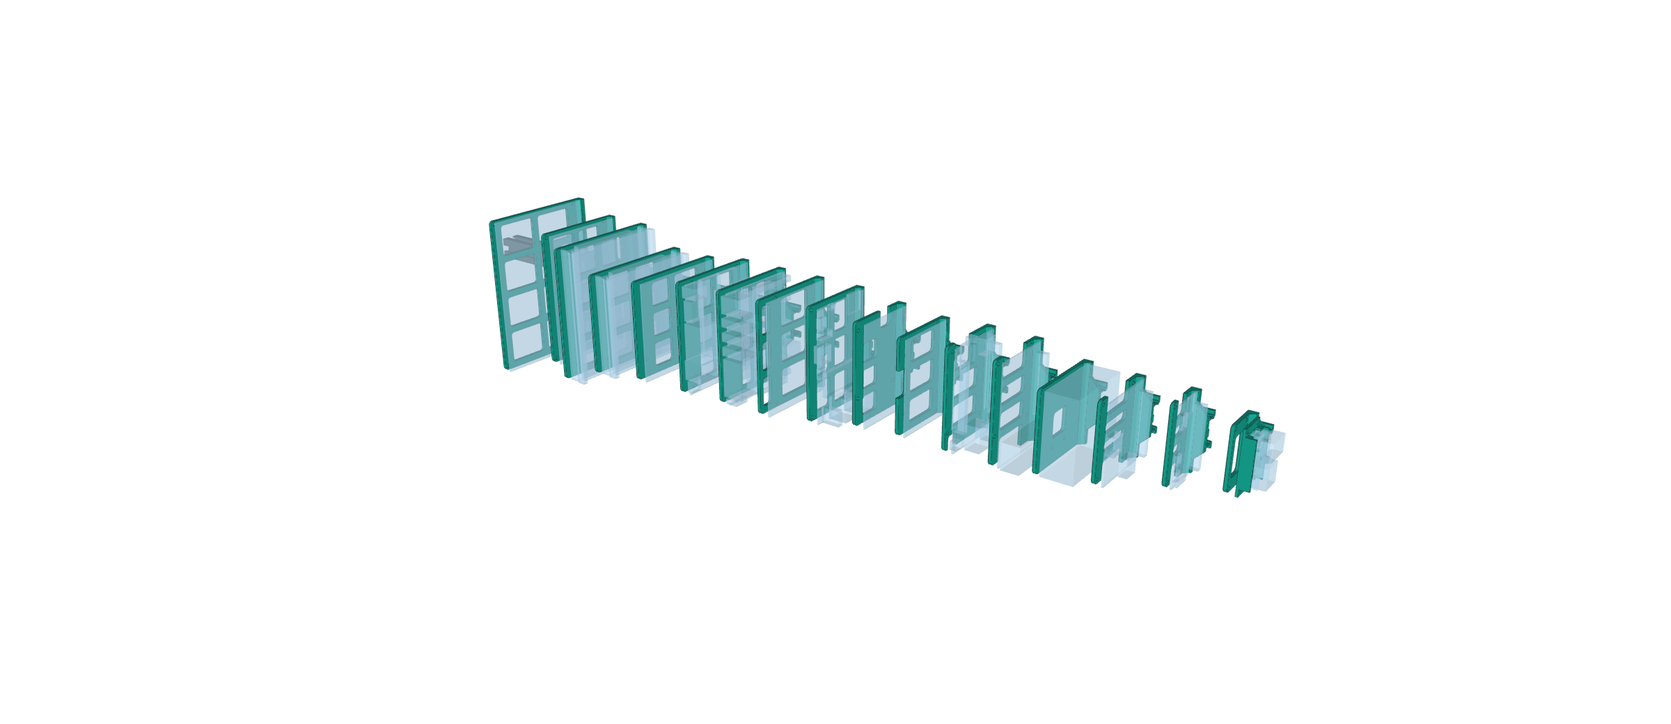
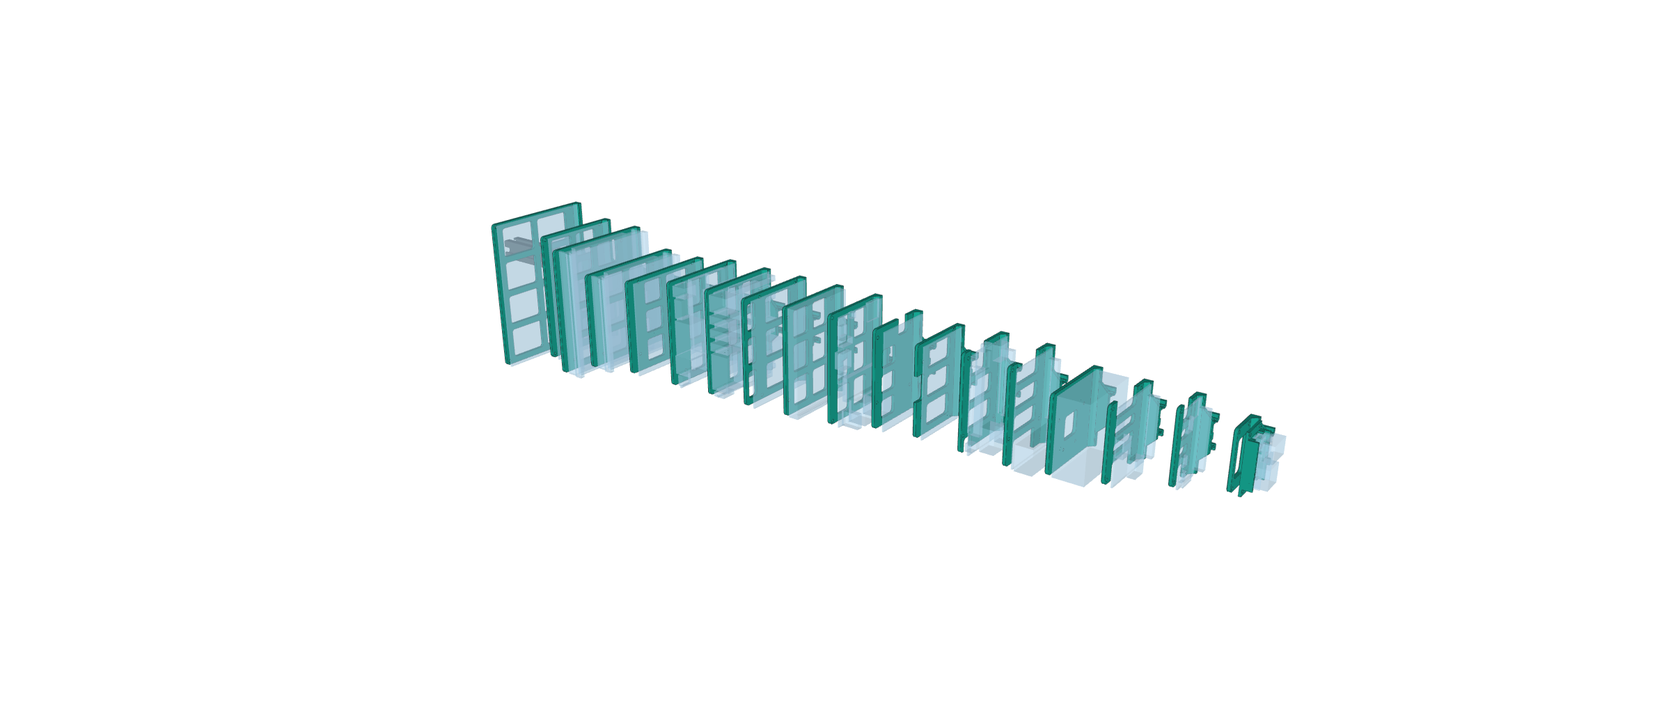
Add a bracket for 2.5-inch SSDs and hard disks (SFF-8201)
Drive25 holds a 2.5-inch drive by the four M3 holes in its underside.
The outline, the holes and the screw depth are from SNIA SFF-8201
Rev 3.4 and the SATA connector from SFF-8223 Rev 2.7; only dimensions
are taken from them.

The definition needs no code changes. The connector end never faces
the frame, M3 x 8 screws reach 2.0 mm into the drive (the spec allows
2.5 mm), and all 24 models pass --check. DESIGN_NOTES gets history 24,
the reference volumes and the sources; the README gets the support,
standoff, print time and download rows, and new hero and gallery
images.

Changed region(s): [[0.2812, 0.2769, 0.7812, 0.6769]]

diff --git a/README.md b/README.md
@@ -6,12 +6,12 @@
 
 <picture>
   <source media="(prefers-color-scheme: dark)" srcset="docs/images/hero-dark.png">
-  <img alt="Brackets side by side on a 20x20 aluminium extrusion, for (left to right) LattePanda Mu Lite Carrier, LattePanda 3 Delta, Hardkernel ODROID-M1, Hardkernel ODROID-N2+, Hardkernel ODROID-M2, NVIDIA Jetson Orin Nano Developer Kit, Orange Pi 5 Plus, Radxa ROCK 5B, Orange Pi 5, Orange Pi 5 Pro, Khadas VIM1S, BeagleBoard.org BeagleBone Black, Raspberry Pi 4, Sipeed NanoKVM-Desk, Raspberry Pi 3 A+, Raspberry Pi Zero and Sipeed NanoKVM Lite in its cradle" src="docs/images/hero-light.png">
+  <img alt="Brackets side by side on a 20x20 aluminium extrusion, for (left to right) LattePanda Mu Lite Carrier, LattePanda 3 Delta, Hardkernel ODROID-M1, Hardkernel ODROID-N2+, Hardkernel ODROID-M2, NVIDIA Jetson Orin Nano Developer Kit, Orange Pi 5 Plus, Radxa ROCK 5B, a 2.5-inch drive, Orange Pi 5, Orange Pi 5 Pro, Khadas VIM1S, BeagleBoard.org BeagleBone Black, Raspberry Pi 4, Sipeed NanoKVM-Desk, Raspberry Pi 3 A+, Raspberry Pi Zero and Sipeed NanoKVM Lite in its cradle" src="docs/images/hero-light.png">
 </picture>
 
 ![Python 3.11–3.14](https://img.shields.io/badge/python-3.11%E2%80%933.14-3776AB?logo=python&logoColor=white)
 ![build123d 0.13](https://img.shields.io/badge/CAD-build123d%200.13-0f7b6c)
-![408 models](https://img.shields.io/badge/models-408-0f7b6c)
+![432 models](https://img.shields.io/badge/models-432-0f7b6c)
 ![6 orientations](https://img.shields.io/badge/orientations-6-0f7b6c)
 ![3MF · STL · STEP](https://img.shields.io/badge/files-3MF%20%C2%B7%20STL%20%C2%B7%20STEP-0f7b6c)
 ![No supports](https://img.shields.io/badge/supports-none-0f7b6c)
@@ -21,7 +21,7 @@
 </div>
 
 Use a 20x20 or 40x40 aluminium extrusion like a DIN rail and line your single-board computers up side by side, or clip the same boards onto a real TS35 DIN rail.
-Every Raspberry Pi with mounting holes is covered, from the Raspberry Pi 1 B+ to the Raspberry Pi 5, along with popular Radxa, Pine64, Khadas, Hardkernel, Orange Pi, Libre Computer and LattePanda boards, the NVIDIA Jetson Orin Nano Developer Kit, BeagleBoard.org BeagleBone Black and the Sipeed NanoKVM-Desk and NanoKVM Lite, each in six orientations.
+Every Raspberry Pi with mounting holes is covered, from the Raspberry Pi 1 B+ to the Raspberry Pi 5, along with popular Radxa, Pine64, Khadas, Hardkernel, Orange Pi, Libre Computer and LattePanda boards, the NVIDIA Jetson Orin Nano Developer Kit, BeagleBoard.org BeagleBone Black and the Sipeed NanoKVM-Desk and NanoKVM Lite, each in six orientations. A 2.5-inch SSD or hard disk can go beside them.
 Ready-made files for every model are attached to the [latest release](https://github.com/koedame/sbc-frame-brackets/releases/latest). Every shape is generated by a Python script with [build123d](https://github.com/gumyr/build123d), so you can change the dimensions or add your own board and rebuild only what you need.
 
 ## Highlights
@@ -30,9 +30,10 @@ Ready-made files for every model are attached to the [latest release](https://gi
 - **Six orientations.** Stand the board out from the frame, lay it flat against the frame or put it on a shelf above the frame, each in portrait or landscape.
 - **Either way up.** The grip is identical at the top and bottom, so every bracket can be mounted upside down.
 - **No supports.** Every model prints with the grip on the plate. The 3MF and STL files are already oriented and centred on the plate.
-- **Ready to download.** 3MF, STL and STEP files for all 408 models and the NanoKVM Lite's cradle are attached to the latest release, in one zip per bracket. There is nothing to build unless you want to change a shape.
+- **Ready to download.** 3MF, STL and STEP files for all 432 models and the NanoKVM Lite's cradle are attached to the latest release, in one zip per bracket. There is nothing to build unless you want to change a shape.
 - **The whole Raspberry Pi range.** One bracket per board size: Raspberry Pi 5, 4, 3, 2 and 1 B+ share one, the A+ boards share one, and the Zero family shares one.
 - **Other popular boards.** The Radxa ROCK 3C, Pine64 ROCK64, Hardkernel ODROID-C4 and Libre Computer Le Potato fit the `PiB` bracket made for the Raspberry Pi Model B size, the Radxa ZERO 3W / 3E fit the `PiZero` bracket, the Khadas VIM3 / VIM4 fit the `VIM1S` bracket, and the Radxa ROCK 5B / 5B+ have their own, as do the NVIDIA Jetson Orin Nano Developer Kit, the Orange Pi 5, 5 Plus and 5 Pro, BeagleBoard.org BeagleBone Black, the Hardkernel ODROID-M2, the LattePanda 3 Delta and the LattePanda Mu on its Lite Carrier. The Hardkernel ODROID-N2+ and ODROID-M1 are held by the heatsink that comes under the board, and the Sipeed NanoKVM-Desk by its case, with two of the case's own screws.
+- **2.5-inch drives too.** `Drive25` holds a 2.5-inch SSD or hard disk by the mounting holes in its underside, from the SFF-8201 specification every such drive is made to.
 - **Three mounts.** 20x20 extrusion, 40x40 extrusion (6 mm slot) and TS35 x 7.5 DIN rail.
 - **Checked in CAD.** `--check` measures interference with the frame and the board, unsupported area, an estimated print time and, for DIN rail, whether the leaf springs have room to bend.
 - **Offline 3D viewer.** Download [`viewer.html`](https://github.com/koedame/sbc-frame-brackets/releases/latest/download/viewer.html) from the latest release and open it in any browser with WebGL. No network connection needed.
@@ -75,8 +76,10 @@ Ready-made files for every model are attached to the [latest release](https://gi
 | NVIDIA Jetson Orin Nano Super Developer Kit (off its base) | 100 x 79 mm | `OrinNano` |
 | Sipeed NanoKVM-Desk (NanoKVM Pro, by its case) | 67.1 x 65.4 mm (case) | `NanoKVMDesk` |
 | Sipeed NanoKVM Lite (in a printed cradle) | 35.6 x 22.9 mm (cradle 51.1 x 25.6 mm) | `NanoKVMLite` |
+| 2.5" SSD or hard disk with mounting holes in its underside (SFF-8201) | 100.45 x 69.85 mm | `Drive25` |
 
-The board outlines and mounting holes were taken from the manufacturers' official mechanical drawings, 3D models and manufacturing data (see [`DESIGN_NOTES.md`](DESIGN_NOTES.md) section 7).
+The board outlines and mounting holes were taken from the manufacturers' official mechanical drawings, 3D models and manufacturing data, and the drive's from the SNIA specifications SFF-8201 and SFF-8223 (see [`DESIGN_NOTES.md`](DESIGN_NOTES.md) section 7).
+Drives 7 mm thick or less need not have the holes in their underside, and many have only the ones in their sides, which `Drive25` does not use: look under the drive first.
 
 <details>
 <summary><b>Not covered</b></summary>
@@ -119,10 +122,10 @@ The flat orientations keep the board closest to the frame. The shelf orientation
 
 <picture>
   <source media="(prefers-color-scheme: dark)" srcset="docs/images/gallery-dark.png">
-  <img alt="A grid of brackets for Raspberry Pi B size, A+ size and Zero size boards, Khadas VIM1S, Radxa ROCK 5B, BeagleBoard.org BeagleBone Black, Hardkernel ODROID-M2, LattePanda 3 Delta, LattePanda Mu Lite Carrier, Hardkernel ODROID-N2+, Hardkernel ODROID-M1, Orange Pi 5 Pro, Orange Pi 5, Orange Pi 5 Plus, NVIDIA Jetson Orin Nano Developer Kit, Sipeed NanoKVM-Desk and Sipeed NanoKVM Lite, each on a 20x20 extrusion, a 40x40 extrusion and a TS35 DIN rail" src="docs/images/gallery-light.png">
+  <img alt="A grid of brackets for Raspberry Pi B size, A+ size and Zero size boards, Khadas VIM1S, Radxa ROCK 5B, BeagleBoard.org BeagleBone Black, Hardkernel ODROID-M2, LattePanda 3 Delta, LattePanda Mu Lite Carrier, Hardkernel ODROID-N2+, Hardkernel ODROID-M1, Orange Pi 5 Pro, Orange Pi 5, Orange Pi 5 Plus, NVIDIA Jetson Orin Nano Developer Kit, Sipeed NanoKVM-Desk, Sipeed NanoKVM Lite and a 2.5-inch drive, each on a 20x20 extrusion, a 40x40 extrusion and a TS35 DIN rail" src="docs/images/gallery-light.png">
 </picture>
 
-Every model is attached to the [latest release](https://github.com/koedame/sbc-frame-brackets/releases/latest): one zip per bracket with the 3MF, STL and STEP files of all its models, 408 models in all and the NanoKVM Lite's cradle, and next to them the [offline viewer](https://github.com/koedame/sbc-frame-brackets/releases/latest/download/viewer.html) and the fit test coupons.
+Every model is attached to the [latest release](https://github.com/koedame/sbc-frame-brackets/releases/latest): one zip per bracket with the 3MF, STL and STEP files of all its models, 432 models in all and the NanoKVM Lite's cradle, and next to them the [offline viewer](https://github.com/koedame/sbc-frame-brackets/releases/latest/download/viewer.html) and the fit test coupons.
 The links below always point to the latest release.
 
 | Bracket | Boards | Download |
@@ -144,6 +147,7 @@ The links below always point to the latest release.
 | `OrinNano` | NVIDIA Jetson Orin Nano Developer Kit / Super | [OrinNano.zip](https://github.com/koedame/sbc-frame-brackets/releases/latest/download/OrinNano.zip) |
 | `NanoKVMDesk` | Sipeed NanoKVM-Desk (by its case) | [NanoKVMDesk.zip](https://github.com/koedame/sbc-frame-brackets/releases/latest/download/NanoKVMDesk.zip) |
 | `NanoKVMLite` | Sipeed NanoKVM Lite (in a printed cradle) | [NanoKVMLite.zip](https://github.com/koedame/sbc-frame-brackets/releases/latest/download/NanoKVMLite.zip) |
+| `Drive25` | 2.5" SSD or hard disk (SFF-8201, holes in its underside) | [Drive25.zip](https://github.com/koedame/sbc-frame-brackets/releases/latest/download/Drive25.zip) |
 
 Each zip unpacks to a folder named after the bracket with 72 files: the 3MF, STL and STEP files of eight models on each of the three mounts (`2020`, `4040` and `DIN35`).
 `NanoKVMLite.zip` also has the cradle the board snaps into, `NanoKVMLite_cradle` (75 files).
@@ -159,7 +163,7 @@ File names are `<bracket>_<mount>[_<orientation>][_spacer]`; upright portrait ha
 | Shelf, landscape | `PiB_2020_shelf-landscape` | none |
 
 - **Without standoffs**: the board plate has 3 mm through holes (2.4 mm on `VIM1S` and `NanoKVMDesk`, for M2). Bring your own standoffs and screws. In the flat orientations the holes are countersunk on the back for flat head screws (see below).
-- **With standoffs** (`_spacer`, upright orientations only): standoffs are printed as part of the board plate. Screw through the board straight into them (on `N2Plus` and `M1`, from under the plate into the heatsink, on `NanoKVMDesk` into the case, and on `NanoKVMLite` through the cradle; see below).
+- **With standoffs** (`_spacer`, upright orientations only): standoffs are printed as part of the board plate. Screw through the board straight into them (on `N2Plus` and `M1`, from under the plate into the heatsink, on `NanoKVMDesk` into the case, on `Drive25` into the drive, and on `NanoKVMLite` through the cradle; see below).
 - **Fit test coupons**, attached on their own: `fit_test_2020_1.stl` to `_3.stl` and `fit_test_4040_1.stl` to `_3.stl` (clearance 0.00 / 0.05 / 0.10 mm, told apart by the number of notches).
 
 | Bracket | Standoff height | Outer diameter | Pilot hole | Screws |
@@ -181,6 +185,7 @@ File names are `<bracket>_<mount>[_<orientation>][_spacer]`; upright portrait ha
 | `OrinNano` | 8 mm | 5 mm | 2.2 mm | M2.5 self-tapping |
 | `NanoKVMDesk` | 3 mm | 6 mm | 2.4 mm, through | M2 x 12 from under the plate into the case, in the two rear standoffs (the front two are rests) |
 | `NanoKVMLite` | 6 mm | 6 mm | 2.2 mm | M2.5 x 8 self-tapping, through the cradle |
+| `Drive25` | 3 mm | 6 mm | 3.4 mm, through | M3 x 8 from under the plate into the drive, no longer |
 
 On `ROCK5B`, the 8 mm clears the parts under the board in the official 3D models (the deepest reach 5.4 mm below the ROCK 5B+) and the ROCK 5B's microSD card, which sticks out past the GPIO edge of the board. Use standoffs at least 8 mm tall with the version without standoffs too. An SSD fitted in the M.2 slots under the board is not part of the models and has not been checked.
 
@@ -206,6 +211,8 @@ On `NanoKVMDesk` the bracket holds the NanoKVM-Desk by its case, with the two re
 
 On `NanoKVMLite` the bracket holds a printed cradle, `NanoKVMLite_cradle` (in the same zip), and the NanoKVM Lite snaps into the cradle: the LicheeRV Nano under it has no mounting holes. Print the cradle on its underside, as it is in the files, without supports. Screw it to the standoffs with M2.5 x 8 self-tapping screws through its end plates, then push the board straight down into it until the lips at the middle of the side walls snap over the plastic of the pin headers along both long edges. Pull it straight up to take it out, for example to change the microSD card, which goes in under the board at the USB-C end. The cradle is the same both ways round, and the board fits it either way. Sipeed supplies the Lite with a heatsink for the underside of the board, whose size is not published: the cradle is open under the board, and with the 6 mm standoffs there are 10 mm from the board to the plate, 13 mm at the opening in the plate under it. With the version without standoffs, use 6 mm M2.5 standoffs. The snap fit has not been tried on a printed cradle.
 
+On `Drive25` the bracket holds a 2.5-inch SSD or hard disk by the four M3 threaded holes in its underside, 76.6 x 61.72 mm apart, which the SFF-8201 specification puts in the same place on every drive. Put M3 x 8 screws in from under the plate: 3 mm of plate and 3 mm of standoff, then 2 mm into the drive. The specification only promises that the holes take a screw 2.5 mm deep, so do not use longer screws. With the version without standoffs, use 3 mm M3 spacers with the same screws, and in the flat orientations M3 x 8 flat head screws, which are measured with their heads and reach the same 2 mm into the drive. The standoffs are 6 mm across, inside the 8 mm areas round the holes that the specification sets aside for mounting, so keep your own spacers within 8 mm too. Drives 7 mm thick or less need not have the holes in their underside, and many have only the ones in their sides, which this bracket does not use: look under the drive before you print. Thicker drives (9.5, 12.5 or 15 mm) with the holes fit too: the bracket was checked with a 9.5 mm drive and with a 15 mm box, and the thickness only adds height away from the plate.
+
 In the flat and shelf orientations the board plate prints standing up, so its holes are teardrop-shaped (a screw that fits the round hole still passes through) and there is no version with integrated standoffs. A standoff sticking out sideways from a standing plate cannot print without support unless its underside slopes up at 45 degrees, and that slope either eats most of the face the board sits on or runs into the parts under the board. Use your own standoffs with these.
 
 In the flat orientations the back of the plate lies against the front of the frame, so nothing can stand out behind it: no screw head, nut or standoff thread. The holes are countersunk on the back, 90 degrees, to the largest size in ISO 15065 for the board's screws: 6.5 mm across for M3, 5.6 mm for M2.5 and 4.5 mm for M2. Put flat head screws in from the back before the bracket goes on the frame, into female-female standoffs or the female end of male-female ones. Their heads sit flush with the back or just below it. A flat head screw is measured with its head, so one 6 mm long reaches 3 mm into the standoff. Use flat head screws to ISO 7046 (cross recessed) or ISO 2009 (slotted). Hex socket countersunk screws (ISO 10642) have larger heads (4.7, 5.88 and 6.72 mm on M2, M2.5 and M3) and stand out 0.1 to 0.15 mm, which keeps the bracket off the frame. Where a hole is 3.5 mm or less from the edge of the board, its countersink comes within 0.16 to 0.7 mm of the edge of the plate. On `BBB`, `MuLite`, `OPi5` and `OPi5Plus`, whose holes are 2.9 to 3.2 mm from an edge, it breaks through that edge by up to 0.25 mm.
@@ -216,7 +223,7 @@ In the flat orientations the back of the plate lies against the front of the fra
 - **Extrusion grip (all boards)**: identical hooks at the top and bottom catch the slots on the top and bottom faces of the extrusion. A key in the front slot takes the vertical load.
 - **DIN rail grip (all boards)**: hooks on leaf springs at both sides catch behind the lips. The solid roots of the leaf springs sit 0.05 mm from the lip edges and take the vertical load, and a centre key in the rail channel (between the side walls) backs them up. The key fits both steel rails with 1 mm sheet and aluminium rails with 1.5 mm side walls.
 - Both grips are the same at the top and bottom, so a bracket can be mounted upside down.
-- **Board plate**: the same size as the board (on `N2Plus` and `M1`, the heatsink; on `NanoKVMDesk`, the case; on `NanoKVMLite`, the cradle), with cut-outs to save material. It is notched where the SD card goes in and out.
+- **Board plate**: the same size as the board (on `N2Plus` and `M1`, the heatsink; on `NanoKVMDesk`, the case; on `NanoKVMLite`, the cradle; on `Drive25`, the drive), with cut-outs to save material. It is notched where the SD card goes in and out.
 
 </details>
 
@@ -248,6 +255,7 @@ Estimated print time of the 20x20 version (upright: without / with standoffs):
 | `OrinNano` | ~65 / 87 min | ~63 / 84 min | ~91 min | ~92 min | ~80 min | ~84 min |
 | `NanoKVMDesk` | ~47 / 56 min | ~47 / 55 min | ~64 min | ~65 min | ~53 min | ~53 min |
 | `NanoKVMLite` | ~27 / 42 min | ~28 / 40 min | ~33 min | ~32 min | ~27 min | ~31 min |
+| `Drive25` | ~58 / 63 min | ~56 / 60 min | ~82 min | ~87 min | ~72 min | ~78 min |
 
 The cradle of `NanoKVMLite` takes ~11 min more. These times are not slicer results. They are estimates from `checks_time.py`, meant for comparing shapes.
 
@@ -292,9 +300,10 @@ Mounted upside down, top and bottom swap.
 - The NVIDIA Jetson Orin Nano Developer Kit has all its ports (power, DisplayPort, four USB-A, Ethernet and USB-C) along one long edge, where the power and HDMI edge is in the table; they stick out 1.9 mm. Its microSD slot is under the module at the opposite long edge, where the GPIO edge is: in upright portrait and shelf landscape that edge faces the frame, 4 mm away, so the card can only be changed with the board off. The 40-pin header runs along the end where the other short end is, and the two camera connectors are at the end where the microSD end is in the table, with the usual 4 mm gap.
 - The Sipeed NanoKVM Lite has its USB-C and HDMI ports and its microSD slot at one end, where the microSD end is in the table, and Ethernet at the other. In upright landscape and shelf portrait the USB-C and HDMI end faces the frame, 24.75 mm from the back plate counting the end of the cradle (the HDMI port stands 1.5 mm out of it): right-angle USB-C and HDMI plugs fit there, straight ones do not. Turn the board round in the cradle if a right-angle Ethernet plug suits you better. The long edges, with the pin headers, are where the GPIO and the power and HDMI edges are.
 - The Sipeed NanoKVM-Desk has all its ports (Ethernet, the USB-C ports, both HDMI ports) and the microSD slot on its back, where the other short end is in the table, so they never face the frame. The screen and the thumbwheel are on the front, where the microSD end is, with the usual 4 mm gap: in upright landscape and shelf portrait they face the frame and cannot be used. The side away from the thumbwheel is where the GPIO edge is.
+- A 2.5-inch drive on `Drive25` has its SATA connector at the end where the other short end is in the table, so it never faces the frame: at the bottom in upright and flat portrait, forward in upright landscape and shelf portrait, and at the far side along the rail in flat and shelf landscape. The plug and its cable go past the end of the plate. A plug pushes along the plate, so the drive does not need holding as the boards do, except in flat and shelf landscape: there it pushes the bracket along the rail, where only friction holds it, so plug the cable in before the bracket goes on, or hold the bracket.
 - In shelf, landscape the GPIO edge is only 4 mm from the frame, so a HAT or a ribbon cable on the GPIO header may not fit.
 - Upside down, a shelf bracket hangs the board under the shelf from its screws.
-- The board's own weight is no problem in any orientation, even with the heatsinks of the ODROID-N2+ and ODROID-M1 (about 0.2 and 0.25 kg in all, which bend a shelf less than 2 mm). In upright landscape, flat landscape and shelf portrait the board sticks far out from the grip (the ODROID-M2, ODROID-N2+ and ODROID-M1 do in every orientation), so hold the board when you push a plug in or pull one out. A 10 N push on the far edge bends the plate several millimetres there, and 3 to 5 cm on the long LattePanda brackets, if the board itself did not stiffen it (see [`DESIGN_NOTES.md`](DESIGN_NOTES.md) section 4, History 8).
+- The board's own weight is no problem in any orientation, even with the heatsinks of the ODROID-N2+ and ODROID-M1 (about 0.2 and 0.25 kg in all, which bend a shelf less than 2 mm), and neither is a 2.5-inch hard disk. In upright landscape, flat landscape and shelf portrait the board sticks far out from the grip (the ODROID-M2, ODROID-N2+ and ODROID-M1 do in every orientation), so hold the board when you push a plug in or pull one out. A 10 N push on the far edge bends the plate several millimetres there, and 3 to 5 cm on the long LattePanda brackets, if the board itself did not stiffen it (see [`DESIGN_NOTES.md`](DESIGN_NOTES.md) section 4, History 8).
 
 ## Building from source
 
@@ -312,7 +321,7 @@ python build_all.py --board PiB --mount 20 --orient flat-portrait --format 3mf -
 ```
 
 This writes only the model you ask for, here `PiB_2020_flat-portrait.3mf`, to `models/` and checks it.
-Without any of `--board`, `--mount`, `--orient` and `--format`, it builds all 408 models and the cradle in every format and `viewer.html`, which takes several minutes (more with `--check`).
+Without any of `--board`, `--mount`, `--orient` and `--format`, it builds all 432 models and the cradle in every format and `viewer.html`, which takes several minutes (more with `--check`).
 
 > [!NOTE]
 > On minimal Linux installs (containers, servers), OpenCascade needs libGL. If you see `ImportError: libGL.so.1`, install it, for example with `sudo apt install libgl1` on Debian and Ubuntu.
@@ -321,7 +330,7 @@ Tested on Linux ARM64 (Python 3.11, 3.13 and 3.14) and Linux x86-64 (Python 3.11
 
 | Option | What it does |
 |---|---|
-| `--board PiB PiA` | Brackets to build, by the name of their definition in [`boards/`](boards/README.md): `PiB`, `PiA`, `PiZero`, `VIM1S`, `ROCK5B`, `BBB`, `M2`, `LP3Delta`, `MuLite`, `N2Plus`, `M1`, `OPi5Pro`, `OPi5`, `OPi5Plus`, `OrinNano`, `NanoKVMDesk`, `NanoKVMLite` (default: all) |
+| `--board PiB PiA` | Brackets to build, by the name of their definition in [`boards/`](boards/README.md): `PiB`, `PiA`, `PiZero`, `VIM1S`, `ROCK5B`, `BBB`, `M2`, `LP3Delta`, `MuLite`, `N2Plus`, `M1`, `OPi5Pro`, `OPi5`, `OPi5Plus`, `OrinNano`, `NanoKVMDesk`, `NanoKVMLite`, `Drive25` (default: all) |
 | `--mount 20 DIN` | Mounts to build: `20`, `40`, `DIN` (default: all) |
 | `--orient flat-portrait shelf-landscape` | Orientations to build: `upright-portrait`, `upright-landscape`, `flat-portrait`, `flat-landscape`, `shelf-portrait`, `shelf-landscape` (default: all) |
 | `--format 3mf step` | What to write: `3mf`, `stl`, `step`, `viewer` (default: all). The upright orientations get both the version without and the version with standoffs |
@@ -438,6 +447,7 @@ With Claude Code, the [`sbc-frame-brackets` skill](skills/sbc-frame-brackets/SKI
 - The NVIDIA Jetson Orin Nano Developer Kit is checked against its official 3D model, in all six orientations, with the base, its screws and the Wi-Fi antennas left out. The model has an SSD in the M.2 2230 slot but none in the 2280 slot.
 - The Sipeed NanoKVM-Desk is checked against Sipeed's official 3D models of its current and earlier cases, in all six orientations. The thickness of its rubber feet is not published; the front ones stay on and would reach the plate only if they were thicker than the 3 mm standoffs.
 - The Sipeed NanoKVM Lite is checked against Sipeed's official 3D model in all six orientations, the cradle against the board and the brackets against both. The heatsink is not in the model.
+- The 2.5-inch drive bracket (`Drive25`) is checked against a simplified drive placed from the SFF-8201 and SFF-8223 specifications (the largest outline, 9.5 mm thick, and the SATA connector), in all six orientations. It has not been printed or tried with a drive.
 - None of the Radxa, Pine64, Khadas, BeagleBoard.org, Hardkernel, Orange Pi, Libre Computer, LattePanda, NVIDIA or Sipeed boards has been tried on a printed bracket.
 - The DIN rail versions have not been printed yet. They are checked against steel TS35 x 7.5 rails with 1 mm sheet and aluminium rails 7.3 mm deep with 1.5 mm side walls (see [`DESIGN_NOTES.md`](DESIGN_NOTES.md) section 7). On steel rails the centre key has 0.7 mm to spare on each side; the bracket is still held up and down by the roots of the leaf springs, 0.05 mm from the lip edges.
 

diff --git a/DESIGN_NOTES.md b/DESIGN_NOTES.md
@@ -44,10 +44,10 @@ Last updated: 2026-11-18
 
 - **One model per file.** Output 3MF, STL and STEP.
 - 3MF and STL files are in print orientation, centred on a 256 mm square build plate: upright brackets with the board plate down, flat and shelf brackets on their side with the board plate standing up. The grip is always on the build plate.
-- File names are `<board>_<2020|4040|DIN35>[_<orientation>][_spacer]`. `<board>` is the name of the board's definition in `boards/` (`PiB.json` -> `PiB`): `PiB`, `PiA`, `PiZero`, `VIM1S`, `ROCK5B`, `BBB`, `M2`, `LP3Delta`, `MuLite`, `N2Plus`, `M1`, `OPi5Pro`, `OPi5`, `OPi5Plus`, `OrinNano`, `NanoKVMDesk` or `NanoKVMLite`. `<orientation>` is `upright-landscape`, `flat-portrait`, `flat-landscape`, `shelf-portrait` or `shelf-landscape`; upright portrait has no suffix, so the original file names did not change. `_spacer` (integrated standoffs) exists for the upright orientations only. A board held in a cradle also has `<board>_cradle`, the same for every bracket of that board (history 20).
+- File names are `<board>_<2020|4040|DIN35>[_<orientation>][_spacer]`. `<board>` is the name of the board's definition in `boards/` (`PiB.json` -> `PiB`): `PiB`, `PiA`, `PiZero`, `VIM1S`, `ROCK5B`, `BBB`, `M2`, `LP3Delta`, `MuLite`, `N2Plus`, `M1`, `OPi5Pro`, `OPi5`, `OPi5Plus`, `OrinNano`, `NanoKVMDesk`, `NanoKVMLite` or `Drive25`. `<orientation>` is `upright-landscape`, `flat-portrait`, `flat-landscape`, `shelf-portrait` or `shelf-landscape`; upright portrait has no suffix, so the original file names did not change. `_spacer` (integrated standoffs) exists for the upright orientations only. A board held in a cradle also has `<board>_cradle`, the same for every bracket of that board (history 20).
 - **Generated files are not committed** (`/models/` is in `.gitignore`). Pushing a `v*` tag makes `.github/workflows/build.yml` build every model with `--check` and the coupons, put each board's 3MF, STL and STEP files into `<board>.zip` (in a folder named after the board), and attach the zips, `viewer.html` and the coupons to that release. It stops if a file in `models/` would not be in the release. It uploads to a draft first and publishes it once every file is up, so `releases/latest` never points at a release with only some of the files. The job uploads only the files the release is still missing and tries up to four times 10 minutes apart (GitHub's secondary rate limit stopped uploads of several hundred files part way before the zips), and a re-run of the job picks up where it stopped. Push the next `v0.x.0` tag on `main` after each merged change to the models, the README's download links or the viewer (section 2).
 - The README links to `https://github.com/koedame/sbc-frame-brackets/releases/latest/download/<board>.zip`, which follows the latest release. Keep board names and file names stable: renaming a board breaks its link, and people look for a file in the zip by its name.
-- A release holds at most 1000 files. With one zip per board there are 24 (17 zips, `viewer.html` and 6 coupons) for 408 models and one cradle in 3 formats, and each new board adds one. The workflow still stops before uploading if there are more than 1000.
+- A release holds at most 1000 files. With one zip per board there are 25 (18 zips, `viewer.html` and 6 coupons) for 432 models and one cradle in 3 formats, and each new board adds one. The workflow still stops before uploading if there are more than 1000.
 - `build_all.py` builds only what is asked for (`--board`, `--mount`, `--orient`, `--format`), so a change to one board does not need a full build.
 - `viewer.html` embeds three.js and opens without a network connection.
 - `viewer.html` includes the full three.js MIT license (`vendor/LICENSE-three.txt`) as an HTML comment, so the notice is not lost when `viewer.html` is copied on its own.
@@ -214,6 +214,7 @@ The grip had to stay as it is, every model had to print without supports and cle
 | `OrinNano` | 7.2 mm / 18.9 MPa | 11.7 mm / 15.1 MPa | 4.9 mm / 15.2 MPa | 11.9 mm / 16.2 MPa | 10.4 mm / 13.2 MPa | 6.0 mm / 16.0 MPa |
 | `NanoKVMDesk` | 2.6 mm / 6.5 MPa | 2.8 mm / 6.8 MPa | 2.7 mm / 6.6 MPa | 2.9 mm / 6.8 MPa | 2.8 mm / 6.8 MPa | 2.6 mm / 6.5 MPa |
 | `NanoKVMLite` | 0.4 mm / 7.5 MPa | 9.0 mm / 32.0 MPa | 0.3 mm / 10.9 MPa | 6.4 mm / 32.1 MPa | 7.7 mm / 21.7 MPa | 0.3 mm / 7.0 MPa |
+| `Drive25` | 5.0 mm / 16.2 MPa | 16.8 mm / 28.9 MPa | 4.6 mm / 16.3 MPa | 17.3 mm / 33.3 MPa | 14.2 mm / 22.9 MPa | 4.1 mm / 13.3 MPa |
 
   Deflection at the far edge / peak bending stress. The strength to compare with is 51 MPa for upright and shelf and 35 MPa for flat. The DIN rail versions come out about the same (for example 3.5 mm for `PiB` flat portrait and 15.8 mm for `ROCK5B` flat landscape). Upright portrait, the original orientation, is in the table for comparison.
 
@@ -466,6 +467,23 @@ History 22 left one overlap measured by OpenCascade alone: the parts of an offic
 - **Results unchanged.** `--check` prints the same line as before for all 408 models and the cradle against the official 3D models (`--board-step`), and finds no disagreement. The simplified boards have no surfaces.
 - **Time and memory.** Making the thin solids of the 35,220 faces of the ROCK 5B+ model takes 122 s, once per run: they are kept for every model of the board, like the meshes. The two upright portrait models of `ROCK5B` (20x20) with that model take 282 s and 2.76 GB at the peak, against 320 s and 1.28 GB before. The memory is the thin solids. The time saved is in the cache of meshes: it looked for meshes to drop before adding each new one, going through every mesh it kept, which took minutes with the thousands of parts of an official model. It now looks whenever it has doubled in size since it last looked.
 
+### History 24: 2.5-inch SSDs and hard disks (2026-11-18)
+
+The maintainer asked for a bracket that holds a 2.5-inch SSD, or a hard disk of the same size, beside the boards. It is the first device here that is not a board, and it fits the board definitions as they are: `boards/Drive25.json`, with no code changes. It is named after the form factor, not a product.
+
+- **Sources.** The SNIA specifications SFF-8201 Rev 3.4 (2.5" Form Factor Drive Dimensions, 2018-01-19) for the outline, the mounting holes and the screw depth, and SFF-8223 Rev 2.7 (2.5" Drive Form Factor with Serial Connector) for where the SATA connector is (section 7). Only dimensions are taken from them; no part of either is in this repository. A4, A28 and so on are the labels in their tables, and the definition's `notes` give the label of every dimension.
+- **Outline.** 100.45 x 69.85 mm: the largest length (A6, a requirement since revision 2.0; 100.20 nominal) and the nominal width (A4, +/- 0.25 mm by A5). The plate is that outline, so it does not stick out beyond the drive (section 2). `l` runs from the connector end and `s` across the drive. The simplified drive is the largest one, 70.10 mm wide (A4 + A5), measured from the side at `s` = S that the holes are measured from.
+- **Holes.** The four M3 threaded holes in the underside (A32): 14.00 and 90.60 mm from the connector end (A50, A51), 4.07 mm from one side (A28) and 61.72 mm apart across the drive (A29), so 76.6 x 61.72 mm apart. 3 mm through holes in the version without standoffs (section 2), a tight fit for M3 as on the other M3 boards. The side holes are not used: they would need walls along the drive's sides, standing up from the plate.
+- **Screw depth.** SFF-8201 gives a maximum fastener penetration of 2.5 mm for the bottom holes (A41), which the drive shall accept, and nothing deeper. M3 x 8 screws go in from under the plate: 3 mm of plate, 3 mm of standoff, then 2.0 mm into the drive. The 0.5 mm left covers the length tolerance of an 8 mm screw (+/- 0.29 mm, js15) and more. In the flat orientations an M3 x 8 flat head screw, which is measured with its head, reaches the same 2.0 mm with the head flush in its countersink (history 21). With the version without standoffs the README asks for 3 mm spacers, so the same screws fit.
+- **7 mm drives.** SFF-8201 makes the bottom holes optional on drives 7 mm thick or less (the note under its figures 3-1 to 3-3), so a thin drive may have only the side holes. The README says to look under the drive first. A drive that has the bottom holes fits whatever its thickness, since only its height changes and that goes away from the plate. The definition has a 9.5 mm drive (9.70 mm with A2). A 15.2 mm box (A1 15.00) was also checked, once and not kept in the definition: it touches none of the 24 brackets.
+- **Standoffs.** 3 mm tall and 6 mm across, inside the 8 mm target areas round the bottom holes (A37) that the specification sets for the underside, so the drive touches the bracket only there. Their holes are 3.4 mm, for the screws to pass through, as on `N2Plus` and `M1` (`through`: the viewer shows a screw).
+- **Connector end.** `frame_edge` is `s=0` and the connector end is `l = 0`, the end that never faces the frame: at the bottom in upright portrait and flat portrait, forward in upright landscape and shelf portrait, and at the far end along the rail, away from the grip, in flat landscape and shelf landscape. The connector (SFF-8223, located from the bottom holes) is 42.73 mm wide (A2), centred 4.80 mm off the drive's centre line (A11), 4.00 mm tall (A5) round 3.50 mm above the underside (A7), and runs from 9.40 mm before the first holes (A8) to 0.30 mm past the end (A18). A box past the connector end for the plugs and their cables, 30 mm long, 56 mm across and 10 mm high, touches none of the 24 brackets (checked once, not kept in the definition). There is no `microsd_edge`.
+- **Plugging in.** A plug pushes along the plate, which is stiff that way, not across it like a cable plugged into a board. In upright landscape and shelf portrait it pushes the bracket towards the frame, and in the portrait orientations upwards, which the key or the roots of the DIN leaf springs take. In flat landscape and shelf landscape it pushes along the rail, where only friction holds a bracket, so the README says to plug in before the bracket goes on or to hold the bracket.
+- `--check`: no overlap with the frame or the drive and no unsupported area in all 24 models, every one held, and the DIN leaf springs bend freely in all 8 DIN models. There is no official 3D model: drives from many makers share the specification.
+- **Beam estimates** (table in history 8). 1 N (about 100 g) at the drive's centre bends a shelf at most 0.44 mm, at 1.0 MPa (shelf portrait). The 10 N push at the far edge used for the boards gives up to 17.3 mm and 33.3 MPa in flat landscape, 95% of the 35 MPa across the layers; without the windows it would be 8.5 mm and 10.1 MPa. The windows stay: a plug does not push that way, the drive's metal case, screwed on at four corners, stiffens the plate far more than a board does (ignored here, as for every board), and the plate without windows would be 7.5 to 9.5 cm3 more per bracket, over 40%.
+- **The drive's weight on DIN rail.** On a horizontal rail the weight tips the bracket about the lower lip, and the barb behind the upper lip holds it. The longest lever is in upright landscape and shelf portrait, where the drive's centre is 57.2 mm in front of the rail: 1 N there and the bracket's own weight (about 24 g) make about 66 N mm, about 2 N on the upper barb, 34 mm from the lower lip. The barb's catch face is square to that pull, so the pull does not lift it. It bends the leaf spring and the band in front of it (0.8 x 5.6 mm, 11.5 mm from the root to the barb) the stiff way, by about 5.5 MPa, 16% of the strength across the layers (a hand estimate; it grows with the weight). Pushing the bracket on bends the springs as before (history 4).
+- 432 models and one cradle, 25 release files.
+
 ## 5. Current dimensions (main ones)
 
 See the constants in `sbc_brackets.py` for the details, and each board's definition in `boards/` for its own dimensions.
@@ -529,6 +547,7 @@ See the constants in `sbc_brackets.py` for the details, and each board's definit
 | NVIDIA Jetson Orin Nano Developer Kit / Super (`OrinNano`) | Official [carrier board specification SP-11324-001 v1.3](https://developer.nvidia.com/downloads/assets/embedded/secure/jetson/orin_nano/docs/jetson_orin_nano_devkit_carrier_board_specification_sp.pdf) (PDF, figure 4-1), [3D model](https://developer.nvidia.com/downloads/assets/embedded/secure/jetson/orin_nano/docs/jetson_orin_nano_devkit_3d_step_model.zip/) `P3766-P3768SKU4-P3767ENVELOPE.stp` (STEP, the developer kit on its base) and [carrier board reference design files A04](https://developer.nvidia.com/downloads/assets/embedded/secure/jetson/orin_nano/docs/jetson_orin_nano_devkit_carrier_board_reference_design_files_a04_20230320.zip/) (outline and drill layers), from the [Jetson Download Center](https://developer.nvidia.com/embedded/downloads); Super from the [user guide](https://docs.nvidia.com/jetson/orin-nano-devkit/user-guide/latest/index.html). 100 x 79 mm, 2.75 mm holes 86 x 58 mm apart, 4 mm from the `l` = 0 end and 4 mm from the `s` = S edge (history 16) | High. Interference checked against the official 3D model, with the base, its screws and the antennas left out. No SSD in the 2280 slot in the model |
 | Sipeed NanoKVM-Desk (NanoKVM Pro) (`NanoKVMDesk`) | Official 3D models of the Desk unit from Sipeed's [download site](https://dl.sipeed.com/shareURL/KVM/KVM_Pro/1_3D): [`3D_KVM_PRO_DESK_plastic_20260508.step`](https://cn.dl.sipeed.com/KVM/KVM_Pro/1_3D/3D_KVM_PRO_DESK_plastic_20260508.step) (current units, plastic front shell) and [`3D_KVM_PRO_DESK_print_20260508.step`](https://cn.dl.sipeed.com/KVM/KVM_Pro/1_3D/3D_KVM_PRO_DESK_print_20260508.step) (earlier units, 3D-printed front shell); which bottom screws may be used for mounting, and their sizes, from the [NanoKVM-Desk quick start guide](https://wiki.sipeed.com/hardware/en/kvm/NanoKVM_Pro/desk_start.html) (rack mounting). Case 67.1 x 65.4 x 27.0 mm, rear screw holes (M2) 13.57 mm from the back and 22.55 and 42.38 mm from the side away from the thumbwheel (history 17) | High. Interference checked against both official 3D models. The thickness of the rubber feet is not published |
 | Sipeed NanoKVM Lite (`NanoKVMLite`) | The official [3D model of the Lite](https://cn.dl.sipeed.com/KVM/nanoKVM/HDK/04_3D_file/3D_NanoKVM_Lite.zip) (`NanoKVM Lite.step`) from Sipeed's [download site](https://dl.sipeed.com/shareURL/KVM/nanoKVM/HDK/04_3D_file), linked from the [NanoKVM wiki](https://wiki.sipeed.com/hardware/en/kvm/NanoKVM/introduction.html), and the LicheeRV Nano's dimension drawing `LicheeRV_Nano_70405_Dimension` (`LICHEE/LicheeRV_Nano` on the download site). Board 35.6 x 22.9 mm, held in a printed cradle (history 20) | High. Interference checked against the official 3D model of the Lite. The heatsink is not in it and its size is not published |
+| 2.5" SSD / HDD (`Drive25`) | SNIA [SFF-8201 Rev 3.4](https://members.snia.org/document/dl/25851) (2.5" Form Factor Drive Dimensions, 2018-01-19): outline, bottom mounting holes and the largest screw depth (A6, A4, A28, A29, A32, A41, A50, A51); [SFF-8223 Rev 2.7](https://members.snia.org/document/dl/25855) (2.5" Drive Form Factor with Serial Connector): where the SATA connector is. 100.45 x 69.85 mm, M3 holes 76.6 x 61.72 mm apart, screws at most 2.5 mm into the drive (history 24) | High for the outline, holes and connector (an industry specification every 2.5-inch drive is made to). Bottom holes are optional on drives 7 mm thick or less |
 | Sipeed NanoKVM Full (not added) | The official [3D model of its boards](https://cn.dl.sipeed.com/KVM/nanoKVM/HDK/04_3D_file/3D_RV_Nano_KVM_V1.rar), with no case, from the same [download site](https://dl.sipeed.com/shareURL/KVM/nanoKVM/HDK/04_3D_file) (history 17) | No 3D model or drawing of the case is published |
 | DIN rail TS35 | Vendor specifications (35 wide, 7.5 deep, 1 mm sheet). The 27 mm outer width of the hat's base is from two vendors' drawings (table below), as are the 1.5 mm side walls and 7.3 mm depth of the aluminium rails | High for width, depth, sheet thickness and the 27 mm base width. The tolerance of the base width has not been confirmed |
 
@@ -581,6 +600,7 @@ The material used for the prints and which direction was loose (front-back, up-d
 - [ ] Print `OrinNano` and try it with a Jetson Orin Nano Developer Kit off its base: M2.5 screws in the 2.2 mm pilot holes and in the 3 mm holes of the version without standoffs, an M.2 2280 SSD under the board (not in the official model), and where to put the Wi-Fi antennas (history 16)
 - [ ] Print `NanoKVMDesk` and try it with a NanoKVM-Desk, the current case and, if one is at hand, the earlier one: M2 x 12 screws through the 2.4 mm holes into the case's rear holes, whether the case sits flat on the 3 mm rests with the front rubber feet on (their thickness is not published), and 3 mm M2 standoffs with the version without standoffs (history 17)
 - [ ] Print `NanoKVMLite` and its cradle and try them with a NanoKVM Lite: how hard the board snaps in and comes out, whether the lips hold it upside down and in the flat orientations, whether Sipeed's heatsink fits under the board, and right-angle plugs at the end that faces the frame in upright landscape and shelf portrait (history 20)
+- [ ] Print `Drive25` and try it with a 2.5-inch drive: M3 x 8 screws through the 3.4 mm holes of the standoffs and the 3 mm holes of the version without standoffs, whether the drive sits flat on the four 6 mm standoffs, and plugging in a SATA cable in flat landscape and shelf landscape, where the plug pushes along the rail (history 24)
 - [ ] Sipeed NanoKVM Full: add it if Sipeed publishes a 3D model or drawing of its case (history 17)
 - [x] LattePanda Mu Mini Carrier (DFR1293): the module and cooler hang about 29 mm under the carrier. Tall standoffs or an opening for the cooler? → not made for now, the maintainer's decision (2026-11-17, history 12)
 - [ ] Print `N2Plus` and `M1` and try them on the heatsinks: the 5 mm tops of the standoffs between the side wall and the fin (0.4 mm to spare), the M3 x 16 screws through the 3.4 mm holes into the 3 mm base, and round spacers no more than 5 mm across with the version without standoffs (history 13)
@@ -610,7 +630,7 @@ The material used for the prints and which direction was loose (front-back, up-d
 6. To publish the files, push the next version tag on `main` once the pull request is merged (one minor version up from the latest release, which `gh release view` shows: `git tag v0.<n>.0 && git push origin v0.<n>.0`); the workflow builds every model, packs them into one zip per board and attaches the zips to that release. Then check that every file the README links to is in the release.
 7. Update sections 8 and 9 and the "last updated" date of these notes.
 
-### Reference volumes (as of 2026-11-17, cm3)
+### Reference volumes (as of 2026-11-18, cm3)
 
 Without the `_spacer` suffix and with it. Flat and shelf have no `_spacer` version. The parts that are not brackets, such as the NanoKVM Lite's cradle, are in the last table by their whole model names.
 
@@ -635,6 +655,7 @@ Without the `_spacer` suffix and with it. Flat and shelf have no `_spacer` versi
 | OrinNano | 21.137 | 21.687 | 21.780 | 22.330 | 21.229 | 21.780 |
 | NanoKVMDesk | 16.555 | 16.844 | 17.198 | 17.487 | 16.648 | 16.937 |
 | NanoKVMLite | 6.201 | 6.834 | 6.731 | 7.364 | 6.237 | 6.870 |
+| Drive25 | 17.628 | 17.839 | 18.271 | 18.482 | 17.721 | 17.932 |
 
 **Upright landscape (`_upright-landscape`)**
 
@@ -657,6 +678,7 @@ Without the `_spacer` suffix and with it. Flat and shelf have no `_spacer` versi
 | OrinNano | 20.212 | 20.762 | 20.855 | 21.405 | 20.304 | 20.855 |
 | NanoKVMDesk | 16.480 | 16.769 | 17.123 | 17.412 | 16.573 | 16.862 |
 | NanoKVMLite | 5.919 | 6.552 | 7.040 | 7.672 | 6.448 | 7.080 |
+| Drive25 | 16.280 | 16.491 | 16.923 | 17.134 | 16.373 | 16.584 |
 
 **Flat portrait (`_flat-portrait`)**
 
@@ -679,6 +701,7 @@ Without the `_spacer` suffix and with it. Flat and shelf have no `_spacer` versi
 | OrinNano | 22.600 | 22.763 | 22.315 |
 | NanoKVMDesk | 16.183 | 16.346 | 15.898 |
 | NanoKVMLite | 6.044 | 6.207 | 6.203 |
+| Drive25 | 19.079 | 19.242 | 18.794 |
 
 **Flat landscape (`_flat-landscape`)**
 
@@ -701,6 +724,7 @@ Without the `_spacer` suffix and with it. Flat and shelf have no `_spacer` versi
 | OrinNano | 20.734 | 20.897 | 20.970 |
 | NanoKVMDesk | 16.096 | 16.259 | 15.811 |
 | NanoKVMLite | 4.529 | 5.650 | 5.058 |
+| Drive25 | 16.950 | 17.113 | 16.665 |
 
 **Shelf portrait (`_shelf-portrait`)**
 
@@ -723,6 +747,7 @@ Without the `_spacer` suffix and with it. Flat and shelf have no `_spacer` versi
 | OrinNano | 21.849 | 22.970 | 22.641 |
 | NanoKVMDesk | 16.481 | 17.602 | 17.273 |
 | NanoKVMLite | 6.616 | 7.736 | 7.407 |
+| Drive25 | 17.998 | 19.118 | 18.790 |
 
 **Shelf landscape (`_shelf-landscape`)**
 
@@ -745,6 +770,7 @@ Without the `_spacer` suffix and with it. Flat and shelf have no `_spacer` versi
 | OrinNano | 21.790 | 22.910 | 22.581 |
 | NanoKVMDesk | 16.540 | 17.660 | 17.332 |
 | NanoKVMLite | 6.219 | 7.339 | 7.011 |
+| Drive25 | 18.502 | 19.622 | 19.294 |
 
 **Other parts**
 

diff --git a/skills/sbc-frame-brackets/SKILL.md b/skills/sbc-frame-brackets/SKILL.md
@@ -1,6 +1,6 @@
 ---
 name: sbc-frame-brackets
-description: Get or make a screwless, support-free 3D-printed bracket that clips a single-board computer (Raspberry Pi, Radxa, Khadas, Hardkernel ODROID, Orange Pi, NVIDIA Jetson Orin Nano, BeagleBone, LattePanda, Sipeed NanoKVM-Desk and NanoKVM Lite, and others) onto 20x20 or 40x40 aluminium extrusion or a TS35 DIN rail, as 3MF, STL and STEP. Use when someone wants to mount a board on an extrusion frame or a DIN rail, asks for a bracket, holder or mount for a single-board computer, or wants a board added to sbc-frame-brackets.
+description: Get or make a screwless, support-free 3D-printed bracket that clips a single-board computer (Raspberry Pi, Radxa, Khadas, Hardkernel ODROID, Orange Pi, NVIDIA Jetson Orin Nano, BeagleBone, LattePanda, Sipeed NanoKVM-Desk and NanoKVM Lite, and others), or a 2.5-inch SSD or hard disk, onto 20x20 or 40x40 aluminium extrusion or a TS35 DIN rail, as 3MF, STL and STEP. Use when someone wants to mount a board or a 2.5-inch drive on an extrusion frame or a DIN rail, asks for a bracket, holder or mount for a single-board computer or a 2.5-inch SSD, or wants a board added to sbc-frame-brackets.
 license: MIT
 ---
 
